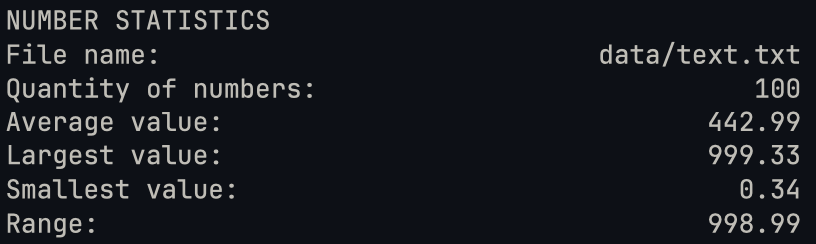
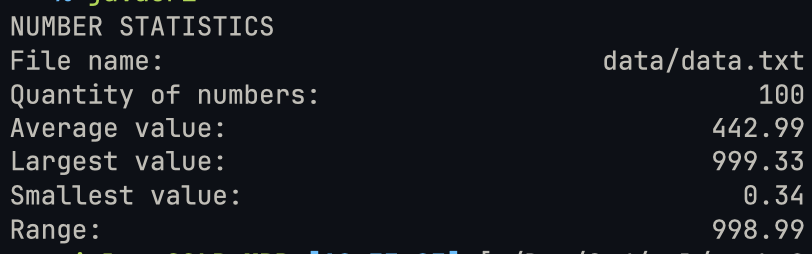
Rename file

diff --git a/src/Main.java b/src/Main.java
@@ -9,7 +9,7 @@ import java.util.Scanner;
 class Main {
 
   public static void main(String[] args) {
-    final String path = "data/text.txt";
+    final String path = "data/data.txt";
 
     int qtyNumbers = 0;
     double totalValue = 0.0d;
